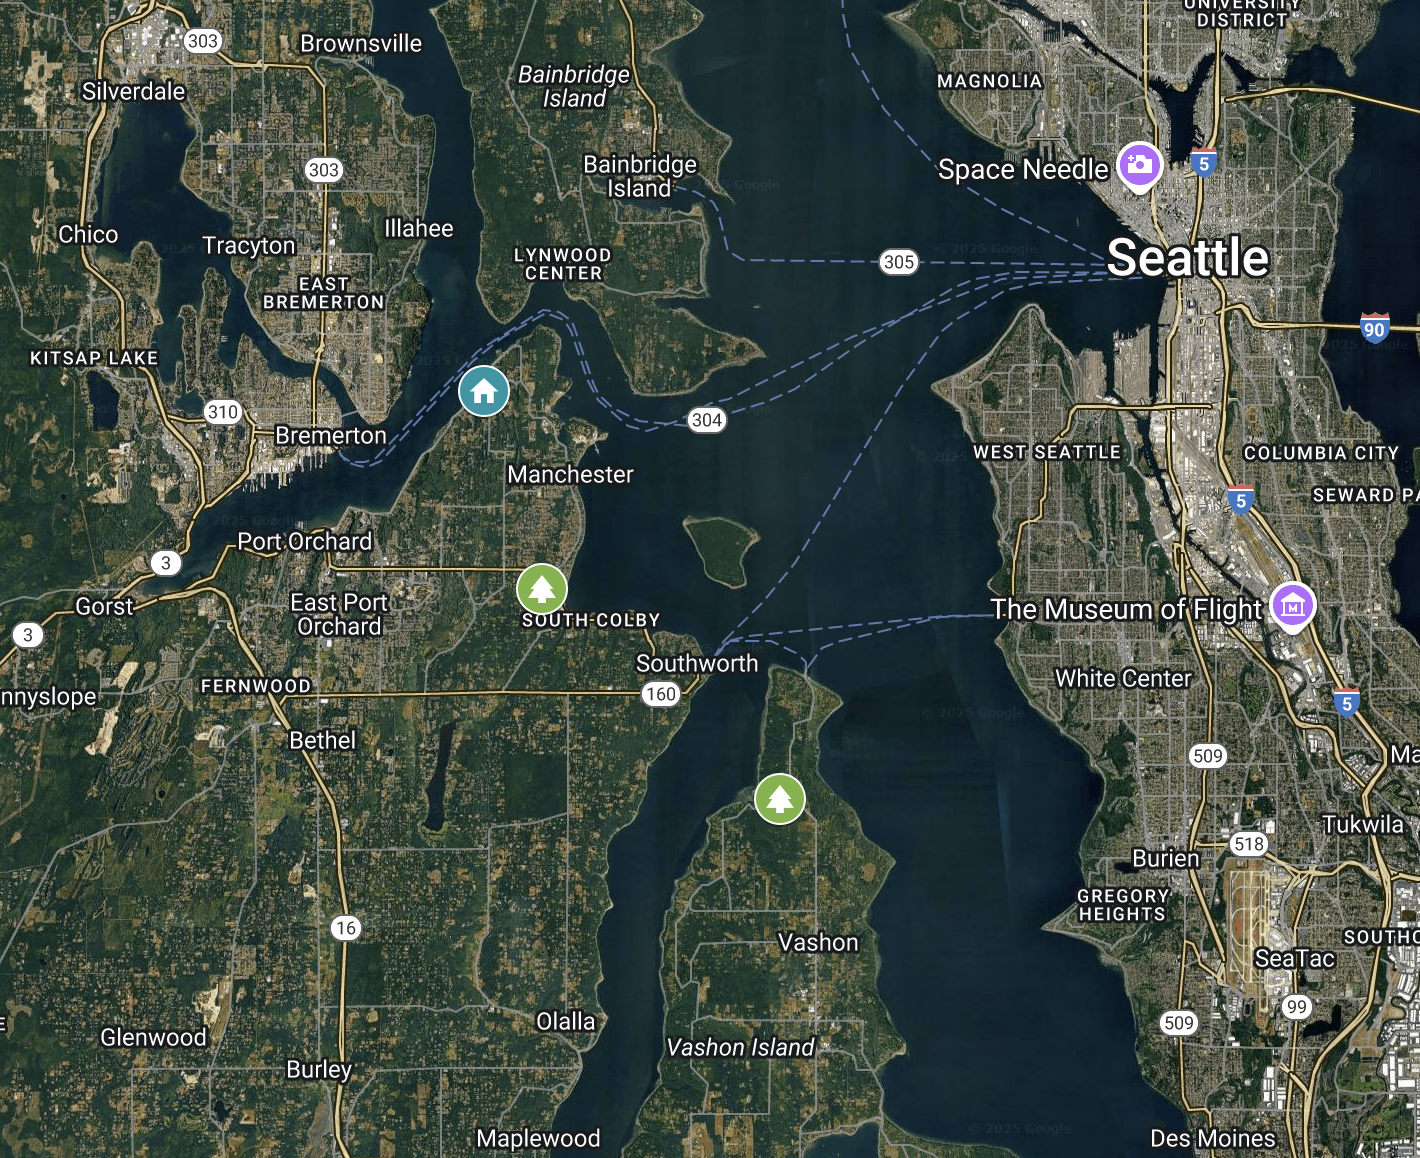
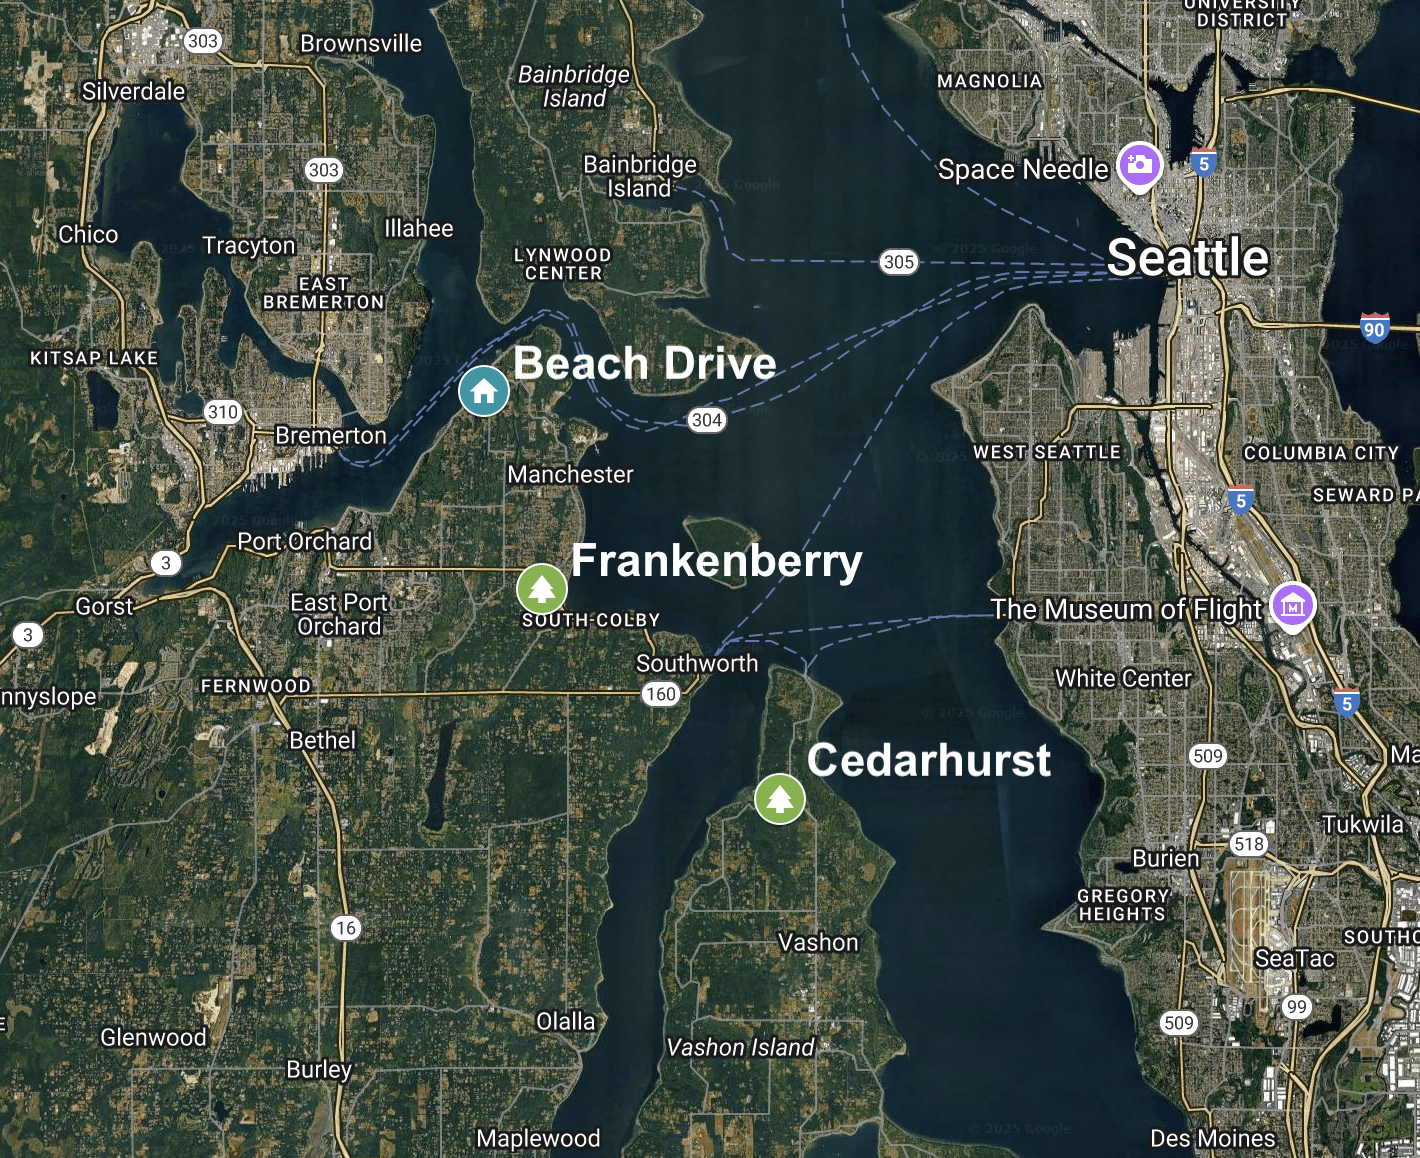
Add map back in, but static only.

Changed region(s): [[0.3408, 0.2798, 0.5577, 0.342], [0.5577, 0.6218, 0.7437, 0.6839], [0.4028, 0.4663, 0.6197, 0.4974]]

diff --git a/index.html b/index.html
@@ -129,24 +129,21 @@
         </div>
       </section>
 
-      <!-- Map Spotlight
+      <!-- Map Spotlight -->
       <section
         class="spotlight style1 orient-right content-align-left image-position-center onscroll-image-fade-in"
         id="MapSpotlight"
       >
         <div class="content">
-          <h2>Interactive Map</h2>
-          <p>With coords, pics, and redfin links.</p>
-          <p><em>Requires Google account login, and access permissions.  Requests for permission are welcome.</em></p>
-          <p><sub>Might be difficult if not impossible on iPhone that opens its Google Maps app when clicking the image link.</sub></p>
+          <h2>Site Map</h2>
+          <p>One key criteria for projects is that the sites are accessible within an hour commute by bike and transit from Seattle.</p>
         </div>
         <div class="image">
 			<a href="https://www.google.com/maps/d/u/0/edit?mid=1W0SJ-qwX7jig5aV6a-ImAHNPZLK1b90&usp=sharing">
           <img src="images/MapScreenshot.png" alt="" />
 			</a>
         </div>
-      </section> -->
-
+      </section> 
 	  <!-- Footer -->
       <footer class="wrapper style1 align-center">
         <div class="inner">
